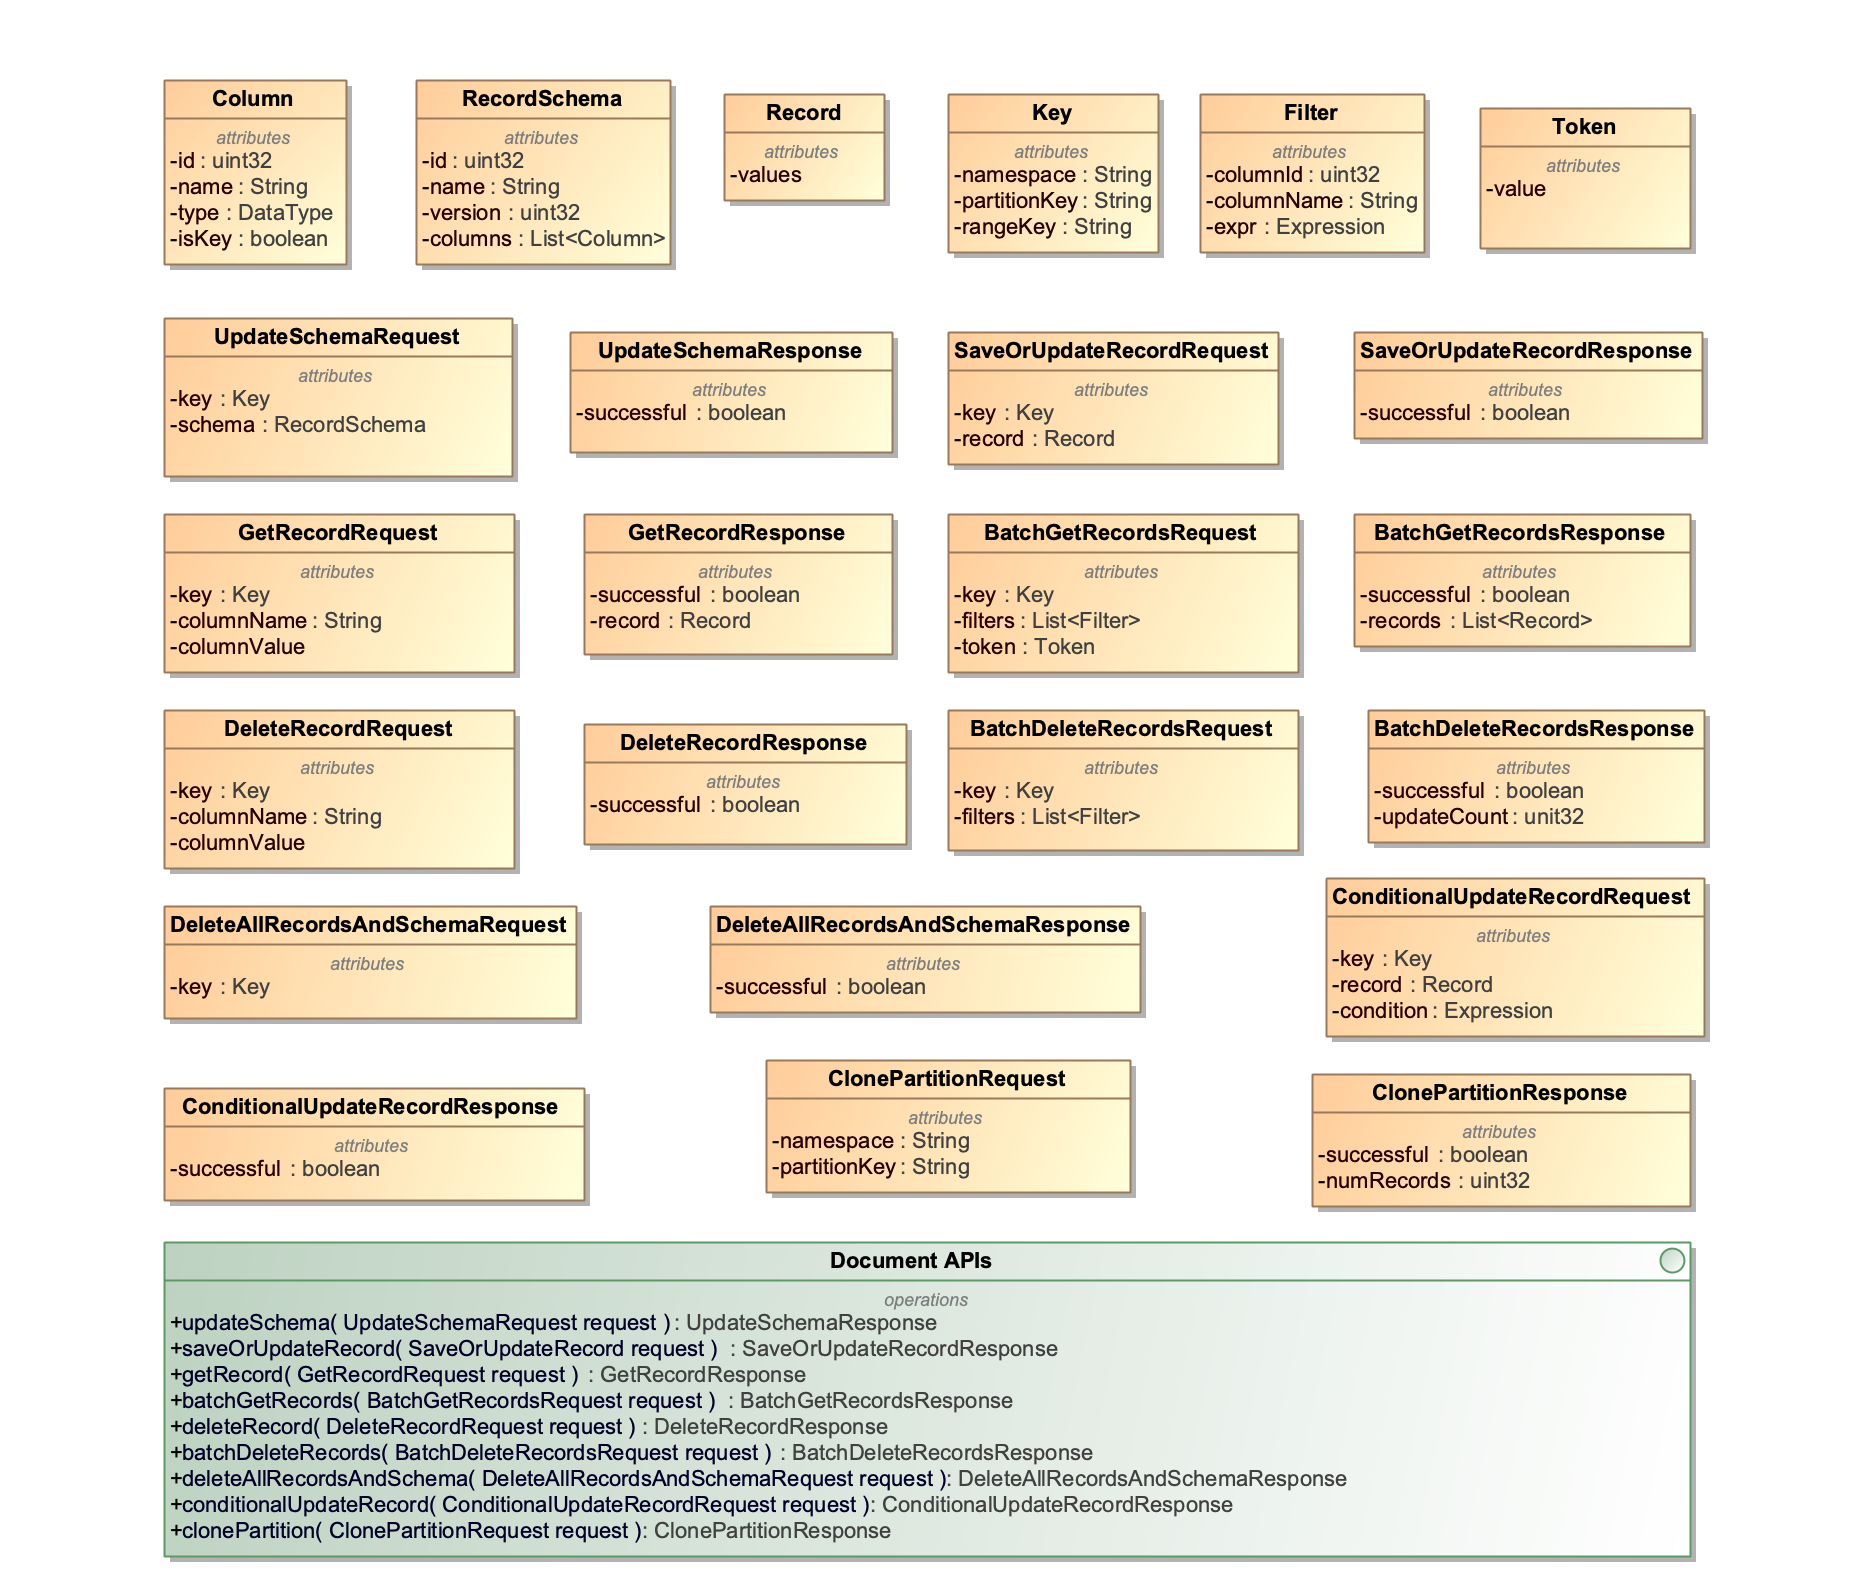
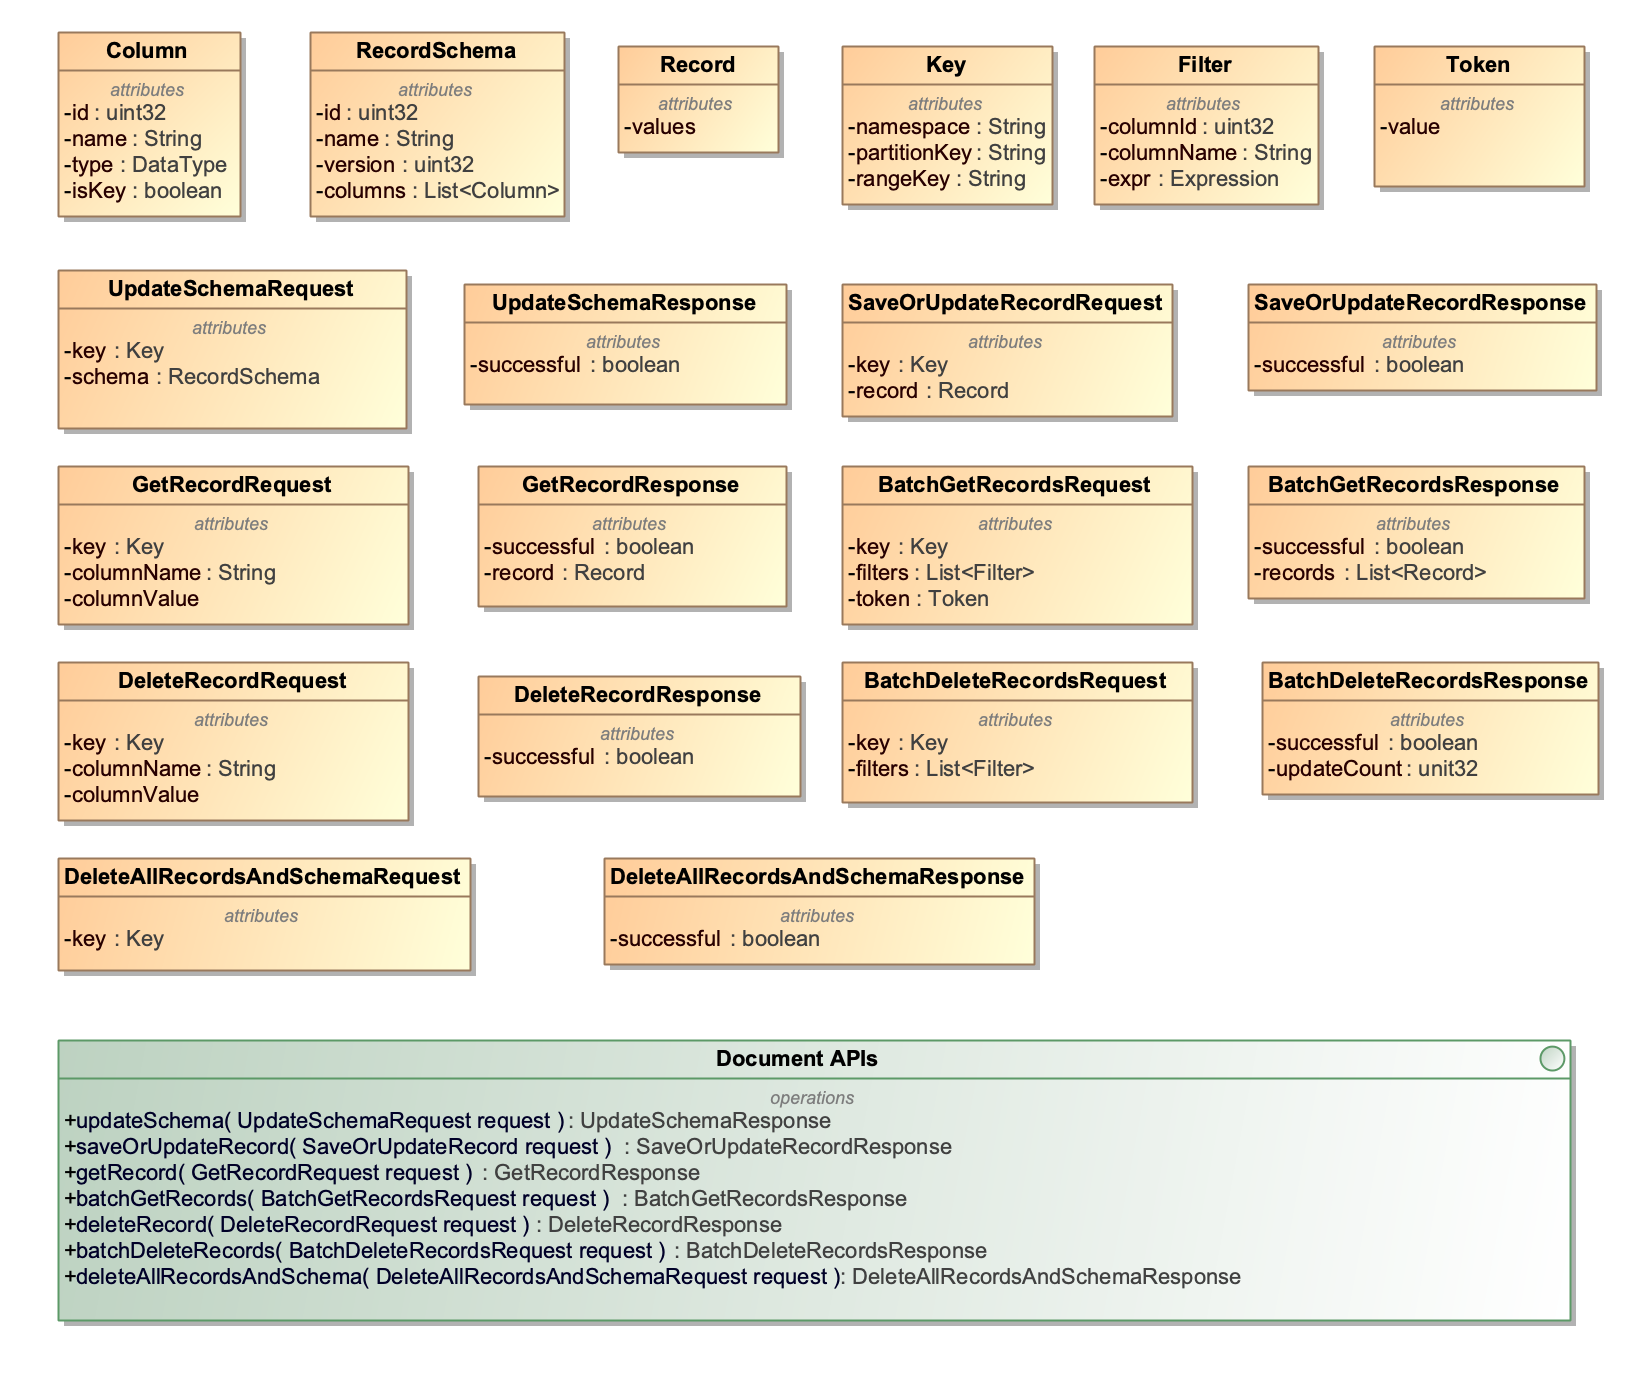
remove copying database, clone partitions, and conditional upates

diff --git a/docs/K2SqlDesignProposalV1.md b/docs/K2SqlDesignProposalV1.md
@@ -36,7 +36,7 @@ The system architecture is as follows and it consists of the following component
 
 ![Architecture](./images/K2SqlSystemDiagram021.png)
 
-When the SQL system first starts, one of the SQL executors creates the template0 and the template1 template databases for Postgres, it also creates a default database called postgres. A user could create a new database, for example, demo, by copying it from the template1 database.  
+When the SQL system first starts, one of the SQL executors creates the template0 and the template1 template databases for Postgres, it also creates a default database called postgres. A user could create a new database, for example, demo, by bootstraping.  
 
 ## SQL Executor 
 
@@ -97,7 +97,9 @@ When the SQL Executor first starts up, it needs to initialize the catalog system
 Postgres consists of a set of system catalogs as described in [PG doc](https://www.postgresql.org/docs/current/catalogs.html). All the catalogs start with the 
 "pg_" prefix. Meanwhile, The [information schema](https://www.postgresql.org/docs/11/information-schema.html) consists of a set of views that contain information about the objects defined in the current database. The information schema is defined in the SQL standard and can therefore be expected to be portable and remain stable — unlike the system catalogs, which are specific to PostgreSQL and are modeled after implementation concerns. The information schema views do not, however, contain information about PostgreSQL-specific features. The views are defined in this [sql](https://github.com/futurewei-cloud/chogori-sql/blob/master/src/k2/postgres/src/backend/catalog/information_schema.sql).
 
-For Postgres, it always creates a new database from templates. The two templates are [template0 and template1](https://www.postgresql.org/docs/11/manage-ag-templatedbs.html), where template0 is never changed after the PG cluster starts and template1 includes other changes. By default, PG copies the standard system database named template1. As a result, when a cluster starts up, template0, template1, and the default database postgres need to be created first. Each database consists a set of system catalogs, where both system table schemas and user table schemas are stored. For example, all relations are stored in pg_class table and the columns are stored in pg_attribute. The pg_tables is an view of the tables and pg_database holds all databases.
+For Postgres, it always creates a new database from templates. The two templates are [template0 and template1](https://www.postgresql.org/docs/11/manage-ag-templatedbs.html), where template0 is never changed after the PG cluster starts and template1 includes other changes. By default, PG copies the standard system database named template1. As a result, when a cluster starts up, template0, template1, and the default database postgres need to be created first. However, we don't support copying a database in our system and create the database using bootstrap scripts instead. That means, all the updates on template1 are not inherited by the new created databases. 
+
+Each database consists a set of system catalogs, where both system table schemas and user table schemas are stored. For example, all relations are stored in pg_class table and the columns are stored in pg_attribute. The pg_tables is an view of the tables and pg_database holds all databases.
 
 ##### Caching
 
@@ -140,7 +142,6 @@ Catalog APIs are used to manage databases, tables, and indexes. In the response 
 * createNamespace(): create a database
 * createTable(): create a table
 * createIndex(): create an index
-* *cloneTable(): clone a table from an existing table*
 * alterTable(): change a table schema by adding columns, renaming columns, or dropping columns. The schema version is increased for each update
 * getTableSchema(): get table schema including the index ids if they are available
 * getIndex(): get index information
@@ -160,11 +161,6 @@ The SQL layer stores table schema, indexes, and data on K2 storage layer and it 
 
 The K2 storage layer provides document APIs so that we could the K2 storage layer knows the data schema. As a result, we propose the following SQL document APIs, which is a wrapper layer in the SQL layer to call the native K2 storage APIs. The SQL document APIs could be used to update schema or fetch/update/delete records. Filters are used to filter out data during Index or data scan. A pagination token could be used to fetch records in batches. 
 
-Multiple SQL Executor might try to initialize the system in parallel, to avoid that, we introduce a conditionalUpdateRecord() API so that only one SQL executor could start the initialization, for example, by setting a flag. 
-
-Whenever Postgres creates a database, it first copies all the system catalogs from the template1 template database. To make this database copy more efficient,
-we could introduce a clonePartition() API to clone the partition inside K2 storage to avoid reading/writing data in/out of the K2 storage layer.
-
 ![SQL Document APIs](./images/K2SqlDocumentAPIs021.png)
 
 #### K2 Storage APIs
@@ -179,7 +175,7 @@ The following diagram illustrates the persistence of SQL schema and data in our 
 * The SQL executor initializes the system by first creating two template databases, i.e., template0 and template1. We also persist configuration such as system catalog version and a flag to indicate if the system has been initialized or not
 * The SQL executor then creates a default database postgres such that all users use this database by default
 * User table schemas are stored in system catalog in the database. User table data and index data are stored in the same collection
-* If a user creates a new database, a new collection is created and system catalog in database template1 is copied into the new collection. New table schemas, data, and indexes are stored into the same collection.
+* If a user creates a new database, a new collection is created and system catalog is initialized by SQL executor. New table schemas, data, and indexes are stored into the same collection.
 * However, some of the system catalogs such as pg_database are shared, i.e., its content is for all databases. In our storage model, it would make the update very inefficient if each collection holds its own pg_database. As a result, we might only put shared system catalog tables such as pg_database in template1. To prevent the shared system catalogs becoming a hot spot for the storage layer, the catalog manager in SQL executor should cache them.
 
 ![SQL Schema and data persistence](./images/K2SqlSchemaDataPersistence021.png)
